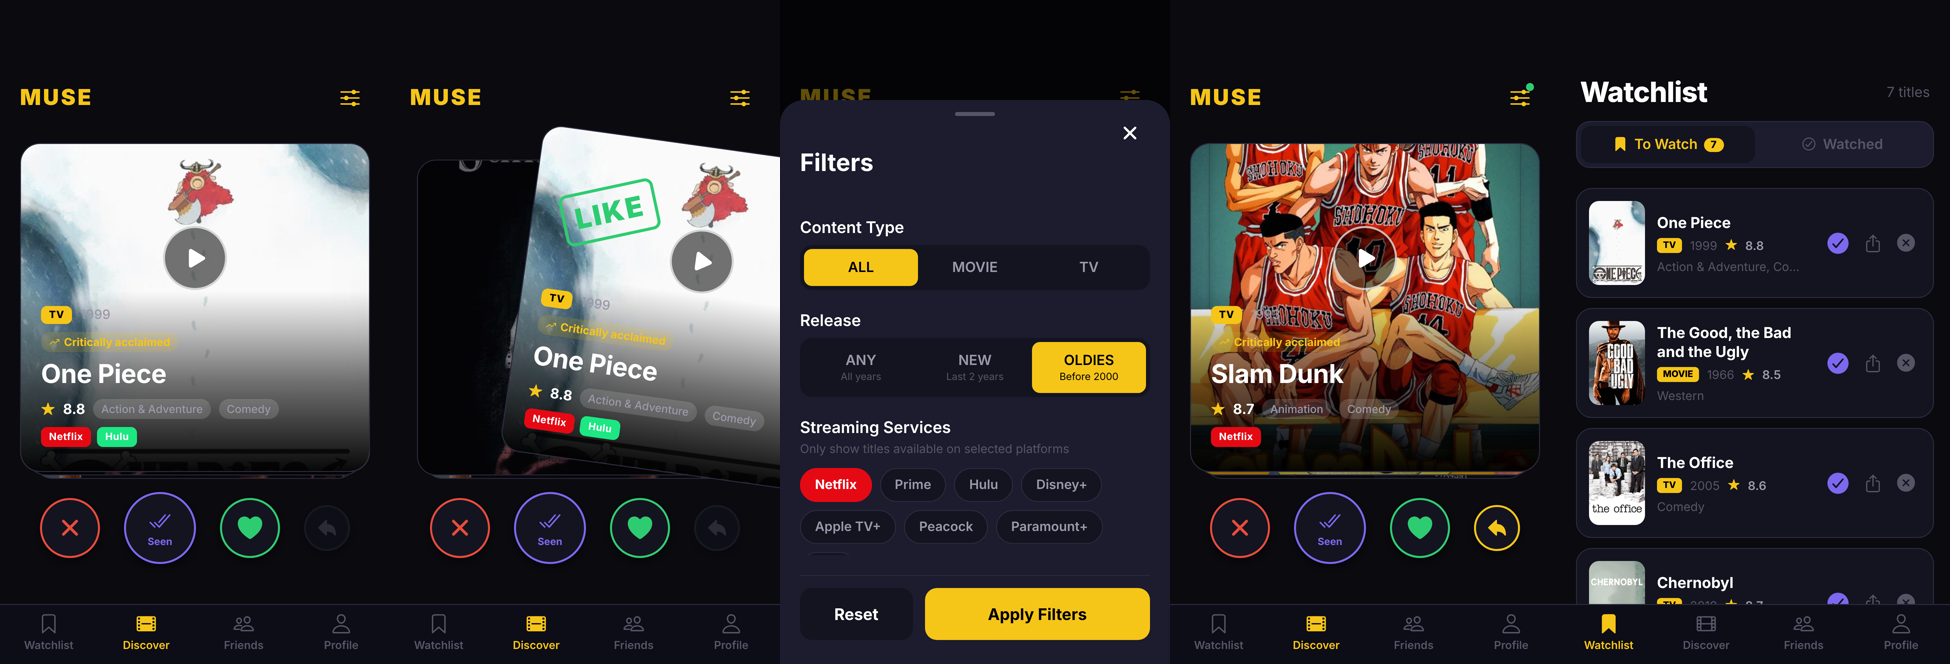
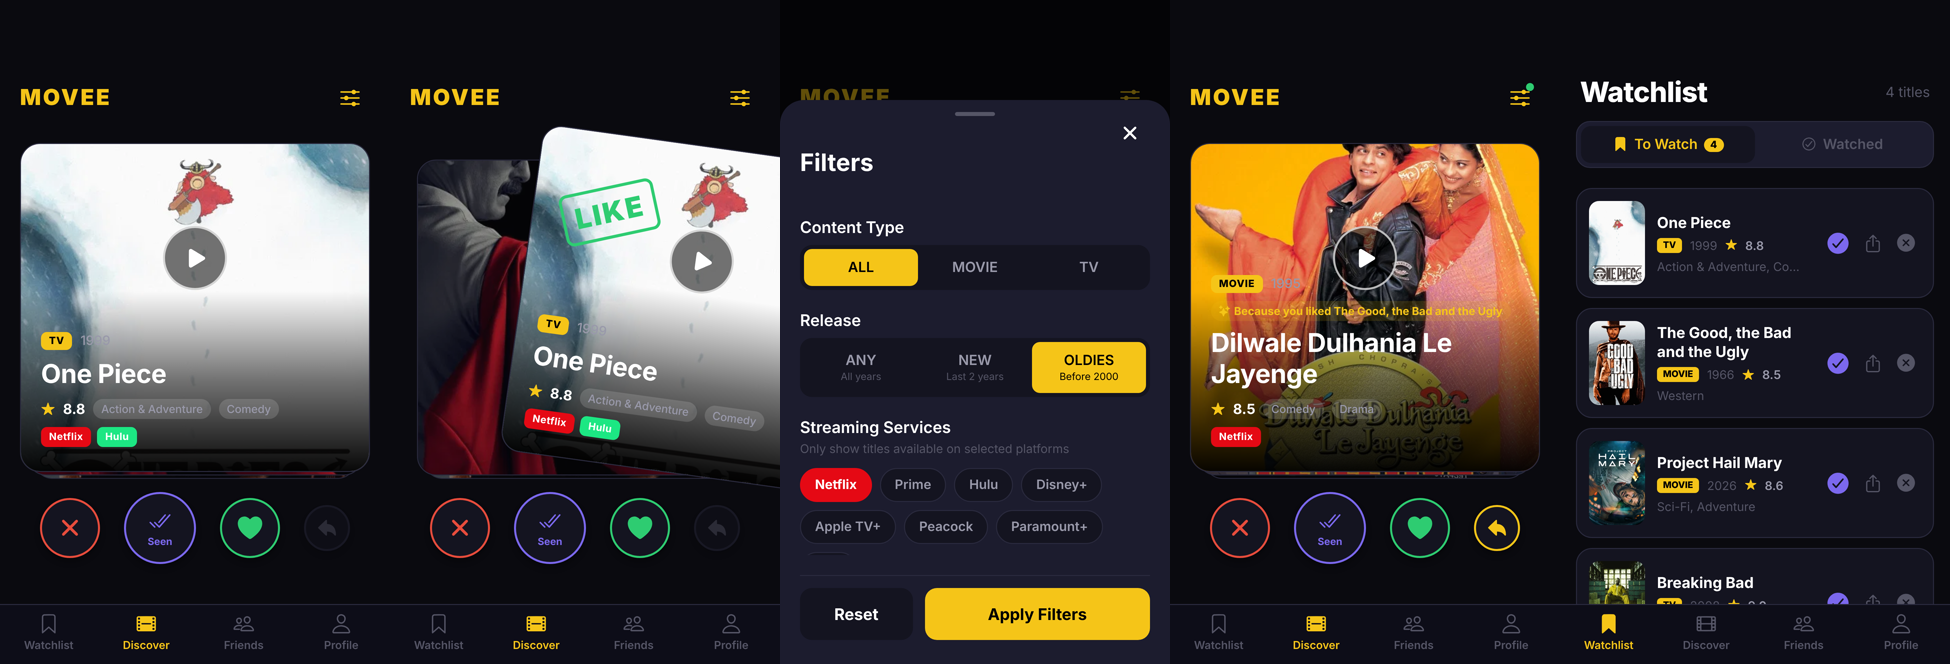
Rename app to Movee
Claude-Session: https://claude.ai/code/session_01RCtFWjEQkEnXS2VRuui7DC

diff --git a/apps/mobile/app/(tabs)/profile.tsx b/apps/mobile/app/(tabs)/profile.tsx
@@ -33,7 +33,7 @@ const SETTINGS_ITEMS = [
   { key: 'notifications', icon: 'notifications-outline' as const, label: 'Push Notifications', value: undefined },
   { key: 'region', icon: 'globe-outline' as const, label: 'Region', value: 'US' },
   { key: 'privacy', icon: 'shield-checkmark-outline' as const, label: 'Privacy', value: 'Public' },
-  { key: 'about', icon: 'information-circle-outline' as const, label: 'About Muse', value: 'v1.0' },
+  { key: 'about', icon: 'information-circle-outline' as const, label: 'About Movee', value: 'v1.0' },
 ];
 
 function useViewerType(topGenreNames: string[], moviePct: number, tvPct: number, totalLikes: number) {
@@ -159,7 +159,7 @@ export default function ProfileScreen() {
         </View>
 
         <Text style={styles.username}>{displayName}</Text>
-        <Text style={styles.memberSince}>Muse member</Text>
+        <Text style={styles.memberSince}>Movee member</Text>
       </View>
 
       <View style={styles.statsGrid}>

diff --git a/apps/api/src/recsys/store.ts b/apps/api/src/recsys/store.ts
@@ -29,13 +29,13 @@ export interface RecsStore {
 
 // ------------------------------------------------------------------ Postgres
 
-type Db = typeof import('@muse/db');
+type Db = typeof import('@movee/db');
 
 export async function createPgStore(): Promise<RecsStore> {
   const {
     db, recsInteractions: I, recsImpressions: P, recsMediaItems: M, recsModels: R,
     and, desc, eq, inArray, lt, sql,
-  } = (await import('@muse/db')) as Db;
+  } = (await import('@movee/db')) as Db;
   const CHUNK = 500;
 
   const toInteraction = (r: { userId: string; itemKey: string; action: string; createdAt: Date }): Interaction => ({

diff --git a/apps/mobile/utils/share.ts b/apps/mobile/utils/share.ts
@@ -3,7 +3,7 @@ import { MediaItem } from '../services/tmdb';
 
 export async function shareItem(item: MediaItem): Promise<void> {
   const url = `https://www.themoviedb.org/${item.type}/${item.id}`;
-  const message = `Check out ${item.title} (${item.year}) — find it on Muse!\n${url}`;
+  const message = `Check out ${item.title} (${item.year}) — find it on Movee!\n${url}`;
 
   if (Platform.OS === 'web') {
     if (typeof navigator !== 'undefined' && typeof (navigator as any).share === 'function') {

diff --git a/apps/mobile/app/(tabs)/index.tsx b/apps/mobile/app/(tabs)/index.tsx
@@ -305,7 +305,7 @@ export default function DiscoverScreen() {
   return (
     <View style={[styles.container, { paddingTop }]}>
       <View style={styles.header}>
-        <Text style={styles.headerTitle}>MUSE</Text>
+        <Text style={styles.headerTitle}>MOVEE</Text>
         <TouchableOpacity style={styles.filterButton} onPress={() => setShowFilters(true)}>
           <Ionicons name="options" size={24} color={Colors.accent} />
           {hasActiveFilters && (

diff --git a/apps/mobile/constants/api.ts b/apps/mobile/constants/api.ts
@@ -1,5 +1,5 @@
 /**
- * Where the Muse API runs. Defaults to http://localhost:8080 (works in the web
+ * Where the Movee API runs. Defaults to http://localhost:8080 (works in the web
  * build and the iOS simulator). On a physical phone or the Android emulator,
  * set EXPO_PUBLIC_API_URL in apps/mobile/.env, e.g. http://192.168.1.20:8080
  * (your computer's LAN address) or http://10.0.2.2:8080 (Android emulator).

diff --git a/apps/api/scripts/recsys-simulate.ts b/apps/api/scripts/recsys-simulate.ts
@@ -1,7 +1,7 @@
 /**
  * Offline simulation of the recommender against synthetic users with hidden tastes.
  *
- *   pnpm --filter @muse/api run recsys:simulate
+ *   pnpm --filter @movee/api run recsys:simulate
  *
  * Each round, every user is served a 10-card deck and "swipes" according to a
  * hidden preference function. Swipes feed the cross-user stats and the logged

diff --git a/apps/mobile/app/signup.tsx b/apps/mobile/app/signup.tsx
@@ -62,7 +62,7 @@ export default function SignupScreen() {
         behavior={Platform.OS === 'ios' ? 'padding' : 'height'}
       >
         <View style={styles.logoSection}>
-          <Text style={styles.logo}>MUSE</Text>
+          <Text style={styles.logo}>MOVEE</Text>
           <Text style={styles.tagline}>Swipe your way through cinema</Text>
         </View>
 

diff --git a/apps/mobile/app/login.tsx b/apps/mobile/app/login.tsx
@@ -46,7 +46,7 @@ export default function LoginScreen() {
         behavior={Platform.OS === 'ios' ? 'padding' : 'height'}
       >
         <View style={styles.logoSection}>
-          <Text style={styles.logo}>MUSE</Text>
+          <Text style={styles.logo}>MOVEE</Text>
           <Text style={styles.tagline}>Swipe your way through cinema</Text>
         </View>
 

diff --git a/apps/api/src/index.ts b/apps/api/src/index.ts
@@ -27,5 +27,5 @@ app.listen(port, (err) => {
     logger.error({ err }, "Error listening on port");
     process.exit(1);
   }
-  logger.info({ port }, "Muse API listening");
+  logger.info({ port }, "Movee API listening");
 });

diff --git a/CLAUDE.md b/CLAUDE.md
@@ -1,14 +1,14 @@
-# Muse
+# Movee
 
 Tinder-style movie & TV discovery app. pnpm workspace, TypeScript throughout.
 Setup and commands for humans are in `README.md`.
 
 ## Layout
 
-- `apps/mobile` (`@muse/mobile`): Expo SDK 54 / React Native 0.81, expo-router. 4 tabs.
-- `apps/api` (`@muse/api`): Express 5. `src/index.ts` loads the repo-root `.env`, default port 8080.
-- `packages/db` (`@muse/db`): Drizzle schema (`src/schema/recs.ts`) + `pg` pool. Also re-exports the
-  drizzle query helpers (`and`, `eq`, `sql`, …): import them from `@muse/db`, not `drizzle-orm`,
+- `apps/mobile` (`@movee/mobile`): Expo SDK 54 / React Native 0.81, expo-router. 4 tabs.
+- `apps/api` (`@movee/api`): Express 5. `src/index.ts` loads the repo-root `.env`, default port 8080.
+- `packages/db` (`@movee/db`): Drizzle schema (`src/schema/recs.ts`) + `pg` pool. Also re-exports the
+  drizzle query helpers (`and`, `eq`, `sql`, …): import them from `@movee/db`, not `drizzle-orm`,
   so there's a single drizzle copy.
 
 ## Commands
@@ -16,7 +16,7 @@ Setup and commands for humans are in `README.md`.
 - `pnpm dev`: API + Expo together (`dev.mjs`). `pnpm dev:api` / `pnpm dev:mobile` separately.
 - `pnpm typecheck`: all packages. Must pass before committing.
 - `pnpm test`: `apps/api/scripts/recsys-e2e.ts`; routes + recommender against a fake TMDB, in-memory store.
-- `pnpm --filter @muse/api run recsys:simulate`: offline simulation with synthetic users.
+- `pnpm --filter @movee/api run recsys:simulate`: offline simulation with synthetic users.
 - `pnpm db:push`: apply schema changes (needs `DATABASE_URL`). Without `DATABASE_URL` the API uses
   an in-memory store.
 - Mobile deps must match Expo SDK 54: add native packages with `pnpm exec expo install <pkg>` in

diff --git a/README.md b/README.md
@@ -1,10 +1,10 @@
-# Muse
+# Movee
 
 Swipe right on movies and shows you like, left on ones you don't. A server-side
 recommender learns from every swipe (yours and everyone else's) and keeps the
 deck filtered by streamer, genre, and new releases vs. oldies.
 
-![Muse screens](docs/screens.png)
+![Movee screens](docs/screens.png)
 
 ## Run it
 
@@ -56,7 +56,7 @@ pnpm test    # API routes + recommender against a fake TMDB, no network or DB ne
 ```
 
 ```bash
-pnpm --filter @muse/api run recsys:simulate    # synthetic users: like-rate vs baselines
+pnpm --filter @movee/api run recsys:simulate    # synthetic users: like-rate vs baselines
 ```
 
 ## How recommendations work
